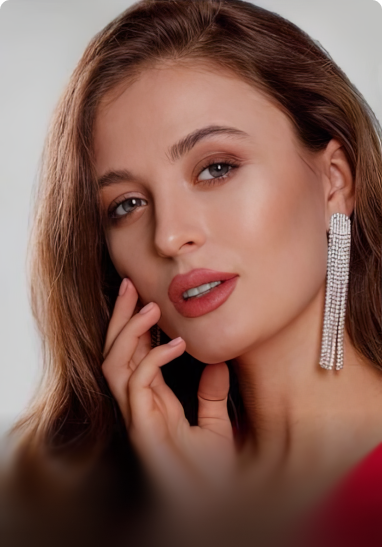
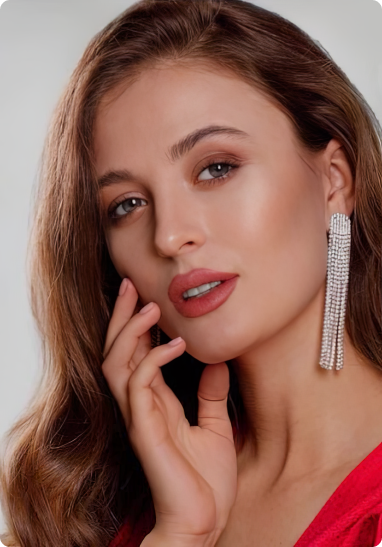
refactoring and updating logic

Changed region(s): [[0.0, 0.777, 1.0, 1.0]]

diff --git a/src/app/components/OurTeam/components/Carousel.jsx b/src/app/components/OurTeam/components/Carousel.jsx
@@ -8,6 +8,7 @@ const Carousel = () => {
     const [currentIndex, setCurrentIndex] = useState(0);
     const [windowWidth, setWindowWidth] = useState(0);
     const containerRef = useRef(null);
+    const touchPosition = useRef(null);
 
     const updateWindowWidth = () => {
         setWindowWidth(window.innerWidth);
@@ -18,6 +19,26 @@ const Carousel = () => {
         window.addEventListener('resize', updateWindowWidth);
         return () => window.removeEventListener('resize', updateWindowWidth);
     }, []);
+
+    const slideDimensions = () => {
+        if (windowWidth >= 1024) {
+            return { width: 382, height: 547 }; // Desktop dimensions
+        } else {
+            return { width: 286, height: 378 }; // Mobile dimensions
+        }
+    };
+
+    const { width: slideWidth, height: slideHeight } = slideDimensions();
+
+    const calculateVisibleSlides = () => {
+        if (windowWidth < 416) return 1.5;
+        if (windowWidth < 768) return 2.5;
+        if (windowWidth < 1024) return 3.5;
+        return 5;
+    };
+
+    const visibleSlides = calculateVisibleSlides();
+    const containerWidth = visibleSlides * slideWidth;
 
     const nextSlide = () => {
         setCurrentIndex((prevIndex) => (prevIndex + 1) % teamMembers.length);
@@ -31,25 +52,24 @@ const Carousel = () => {
         setCurrentIndex(index);
     };
 
-    let visibleSlides = 5;
-    let slideWidth = 384;
-    let slideHeight = 547;
+    const handleTouchStart = (e) => {
+        touchPosition.current = e.touches[0].clientX;
+    };
 
-    if (windowWidth < 1024) {
-        visibleSlides = 3.5;
-    }
-    if (windowWidth < 768) {
-        visibleSlides = 2.5;
-        slideWidth = 286;
-        slideHeight = 378;
-    }
-    if (windowWidth < 416) {
-        visibleSlides = 1.5;
-        slideWidth = 286;
-        slideHeight = 378;
-    }
+    const handleTouchEnd = (e) => {
+        if (!touchPosition.current) return;
 
-    const containerWidth = visibleSlides * slideWidth;
+        const currentTouch = e.changedTouches[0].clientX;
+        const diff = touchPosition.current - currentTouch;
+
+        if (diff > 50) {
+            nextSlide();
+        } else if (diff < -50) {
+            prevSlide();
+        }
+
+        touchPosition.current = null;
+    };
 
     return (
         <div className="relative w-full mt-4 lg:mt-10">
@@ -63,46 +83,50 @@ const Carousel = () => {
                         className="flex transition-transform duration-300"
                         style={{
                             transform: `translateX(-${currentIndex * slideWidth}px)`,
-                            overflowX: windowWidth < 1024 ? 'scroll' : 'hidden',
-                            scrollbarColor: 'transparent transparent', // Mâner și pistă transparente
                         }}
-                        onMouseDown={() => {
-                            containerRef.current.style.cursor = 'grabbing';
-                        }}
-                        onMouseUp={() => {
-                            containerRef.current.style.cursor = 'grab';
-                        }}
+                        onTouchStart={handleTouchStart}
+                        onTouchEnd={handleTouchEnd}
                     >
                         {teamMembers.map((member, index) => (
-                            <div key={index} className="relative flex-shrink-0 mr-[10px] group" style={{ width: slideWidth, height: slideHeight }}>
+                            <div
+                                key={index}
+                                className="relative flex-shrink-0 mr-[10px] group overflow-hidden rounded-b-xl" // Add rounded bottom here
+                                style={{ width: slideWidth, height: slideHeight }}
+                                onClick={() => goToSlide(index)}
+                            >
                                 <Image 
                                     src={member.image} 
                                     alt={member.name} 
                                     className="rounded-xl w-full h-full object-cover" 
                                     width={slideWidth} 
                                     height={slideHeight} 
-                                    style={{ filter: 'none' }}
                                 />
-                                <div className="absolute inset-0 flex items-end justify-between m-5 lg:m-10"> 
-                                    <div className="flex items-center justify-between w-full"> 
+                                {/* Multiple gradient and blur layers for smooth transition with rounded bottom */}
+                                <div className="absolute inset-x-0 bottom-0 h-[100px] bg-gradient-to-t from-black/90 via-black/50 to-transparent rounded-b-xl" style={{ backdropFilter: 'blur(120px)', maskImage: 'linear-gradient(to top, rgba(0, 0, 0, 1), transparent)' }}></div>
+                                <div className="absolute inset-x-0 bottom-0 h-[90px] bg-gradient-to-t from-black/80 to-transparent rounded-b-sm" style={{ backdropFilter: 'blur(100px)', maskImage: 'linear-gradient(to top, rgba(0, 0, 0, 0.9), transparent)' }}></div>
+                                <div className="absolute inset-x-0 bottom-0 h-[80px] bg-gradient-to-t from-black/60 to-transparent rounded-b-sm" style={{ backdropFilter: 'blur(90px)', maskImage: 'linear-gradient(to top, rgba(0, 0, 0, 0.7), transparent)' }}></div>
+                                <div className="absolute inset-x-0 bottom-0 h-[60px] bg-gradient-to-t from-black/40 to-transparent rounded-b-sm" style={{ backdropFilter: 'blur(80px)', maskImage: 'linear-gradient(to top, rgba(0, 0, 0, 0.5), transparent)' }}></div>
+                                <div className="absolute inset-x-0 bottom-0 h-[40px] bg-gradient-to-t from-black/30 to-transparent rounded-b-sm" style={{ backdropFilter: 'blur(70px)', maskImage: 'linear-gradient(to top, rgba(0, 0, 0, 0.4), transparent)' }}></div>
+                                
+                                {/* Content layer */}
+                                <div className="absolute inset-0 flex items-end justify-center mx-5 my-5 lg:mx-10"> 
+                                    <div className="flex items-center justify-between w-full px-5"> 
                                         <div className="text-[#FFFEFE] gap-2">
                                             <h3 className="text-xl font-ekmukta">{member.name}</h3>
                                             <p className="text-[16px] text-[#C1C1C1] font-ekmukta">{member.role}</p>
                                         </div>
-                                        <div className="flex space-x-4 items-center"> {/* Align icons horizontally */}
+                                        <div className="flex space-x-4 items-center">
                                             <a href={member.social.tiktok} className="text-white"><FaTiktok size={20} /></a>
                                             <a href={member.social.instagram} className="text-white"><FaInstagram size={20} /></a>
                                             <a href={member.social.facebook} className="text-white"><FaFacebook size={20} /></a>
                                         </div>
                                     </div>
                                 </div>
-
                             </div>
                         ))}
                     </div>
                 </div>
             </div>
-            {/* Navigația cu puncte și săgeți ascunsă pe mobil */}
             {windowWidth >= 1024 && (
                 <div className="flex justify-between mt-5 px-4">
                     <div className="flex items-center">
@@ -110,7 +134,7 @@ const Carousel = () => {
                             <div
                                 key={index}
                                 onClick={() => goToSlide(index)}
-                                className={`w-2 h-2 rounded-full mx-3 cursor-pointer ${index === currentIndex ? 'bg-white' : 'bg-gray-500'}`}
+                                className={`w-2 h-2 rounded-full mx-1 cursor-pointer ${index === currentIndex ? 'bg-white' : 'bg-gray-500'}`}
                             />
                         ))}
                     </div>

diff --git a/src/app/components/Carousel/Carousel.jsx b/src/app/components/Carousel/Carousel.jsx
@@ -49,7 +49,13 @@ const Carousel = () => {
       } else if (width > 1024 && width <= 1920) {
         setSpacing(20);
         setPerView(1.25);
-      } else {
+      } else if (width > 1920 && width <= 2500) {
+        setSpacing(20);
+        setPerView(1.5);
+      }else if (width > 2500 && width <= 3300) {
+        setSpacing(20);
+        setPerView(1.8);
+      }  else {
         setSpacing(0.4);
         setPerView(1.25);
       }
@@ -121,7 +127,7 @@ const Carousel = () => {
           {index !== currentIndex && (
             <div className={`absolute inset-0 ${isMobile ? 'mobile-overlay bg-[#363636]/40 rounded-lg max-h-[453px] mt-36' : 'h-[750px] max-md:max-h-[453px] max-md:w-[269px] rounded-lg bg-[#363636]/40 max-md:mt-36'}`}></div>
           )}
-          <div className={`absolute inset-0 ${isMobile ? 'w-full h-[453px] mt-36  px-3 pt-3 ' : isTablet ? 'w-full h-full bg-gradient-to-r from-black/60 to-transparent p-3' : 'w-[55%] h-[750px] bg-gradient-to-r from-[#000000]/80 via-[#282828]/85 to-transparent px-10'} flex flex-col justify-around text-white ${currentIndex === index ? 'opacity-100' : 'opacity-0'} transition-opacity duration-200`}>
+          <div className={`absolute inset-0 ${isMobile ? 'w-full h-[453px] bg-gradient-to-t from-black/80 via-black/40 to-transparent mt-36 px-3 pt-3' : isTablet ? 'w-full h-full bg-gradient-to-r from-black/60 to-transparent p-3' : 'w-[55%] h-[750px] bg-gradient-to-r from-[#000000]/80 via-[#282828]/85 to-transparent px-10'} flex flex-col justify-around text-white ${currentIndex === index ? 'opacity-100' : 'opacity-0'} transition-opacity duration-200`}>
             {!isMobile && (
               <Title contentIndex={index} isMobile={isMobile} isTablet={isTablet} />
             )}

diff --git a/src/app/components/OurTeam/OurTeam.jsx b/src/app/components/OurTeam/OurTeam.jsx
@@ -8,7 +8,7 @@ const OurTeam = () => {
             <div className="w-auto h-[550px] lg:h-[854px] lg:pl-[121px] bg-black md:bg-[#0D0D0D]">
                 <div className="text-white pt-7 md:pt-8 lg:pt-12 gap-2 pl-[20px] lg:pl-0">
                     <h1 className="text-3xl font-semibold font-roboto max-md:absolute">Our Team</h1>
-                    <p className="w-[306px] lg:w-[266px] text-[16px] font-ekmukta mt-10 lg:mb-0 max-md:relative">Creative visionaries united by a passion for storytelling and innovation</p>
+                    <p className="w-[306px] lg:w-[266px] text-[16px] font-ekmukta mt-10 lg:mt-2 max-md:relative">Creative visionaries united by a passion for storytelling and innovation</p>
                 </div>
                 <div className="lg:-ml-[20px]">
                     <Carousel/>

diff --git a/src/app/components/OurTeam/constants/teamMembers.jsx b/src/app/components/OurTeam/constants/teamMembers.jsx
@@ -4,7 +4,7 @@ export const teamMembers = [
     {
         name: 'Valery Fyne',
         role: 'Actress',
-        image: '/imgs/OurTeam/Valeria2.png', // Adaugă calea către imagine
+        image: '/imgs/OurTeam/Valeria1.png', // Adaugă calea către imagine
         social: {
             tiktok: '#',
             instagram: '#',
@@ -24,7 +24,7 @@ export const teamMembers = [
     {
         name: 'Victor Fyne',
         role: 'Producer',
-        image: '/imgs/OurTeam/Image1.png',
+        image: '/imgs/OurTeam/Image.png',
         social: {
             tiktok: '#',
             instagram: '#',

diff --git a/src/app/components/Carousel/Components/constants/carouselData.jsx b/src/app/components/Carousel/Components/constants/carouselData.jsx
@@ -24,7 +24,7 @@ export const images = [
     src: {
         desktop: '/imgs/CloseStage.svg',
         tablet: '/imgs/tablet.png',
-        mobile: '/imgs/Mobile.png'
+        mobile: '/imgs/Carusel2.png'
       },
       alt: 'Slide 2',
       raisedAmount: '15000',

diff --git a/src/app/globals.css b/src/app/globals.css
@@ -340,3 +340,4 @@ iframe {
   opacity: 0;
 }
 
+
